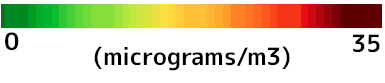
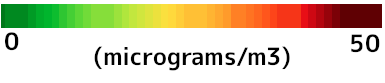
chore: extended pm10 and pm2.5 colorscale range from 30 to 50

Changed region(s): [[0.9039, 0.4096, 0.9974, 0.6265]]

diff --git a/app/src/config/gtif.js b/app/src/config/gtif.js
@@ -725,7 +725,7 @@ export const globalIndicators = [
               description: 'Particulate Matter < 10µm',
               dataInfo: 'PM10',
               min: 0,
-              max: 35,
+              max: 50,
               colormapUsed: grywrd,
               markdown: 'AQ_PM10',
             },
@@ -734,7 +734,7 @@ export const globalIndicators = [
               description: 'Particulate Matter < 2.5µm',
               dataInfo: 'PM25',
               min: 0,
-              max: 35,
+              max: 50,
               colormapUsed: grywrd,
               markdown: 'AQ_PM25',
             },
@@ -823,7 +823,7 @@ export const globalIndicators = [
               description: 'Particulate Matter < 10µm',
               dataInfo: 'PM10',
               min: 0,
-              max: 35,
+              max: 50,
               colormapUsed: grywrd,
               markdown: 'AQ_PM10',
             },
@@ -832,7 +832,7 @@ export const globalIndicators = [
               description: 'Particulate Matter < 2.5µm',
               dataInfo: 'PM25',
               min: 0,
-              max: 35,
+              max: 50,
               colormapUsed: grywrd,
               markdown: 'AQ_PM25',
             },
@@ -921,7 +921,7 @@ export const globalIndicators = [
               description: 'Particulate Matter < 10µm',
               dataInfo: 'PM10',
               min: 0,
-              max: 35,
+              max: 50,
               colormapUsed: grywrd,
               markdown: 'AQ_PM10',
             },
@@ -930,7 +930,7 @@ export const globalIndicators = [
               description: 'Particulate Matter < 2.5µm',
               dataInfo: 'PM25',
               min: 0,
-              max: 35,
+              max: 50,
               colormapUsed: grywrd,
               markdown: 'AQ_PM25',
             },
